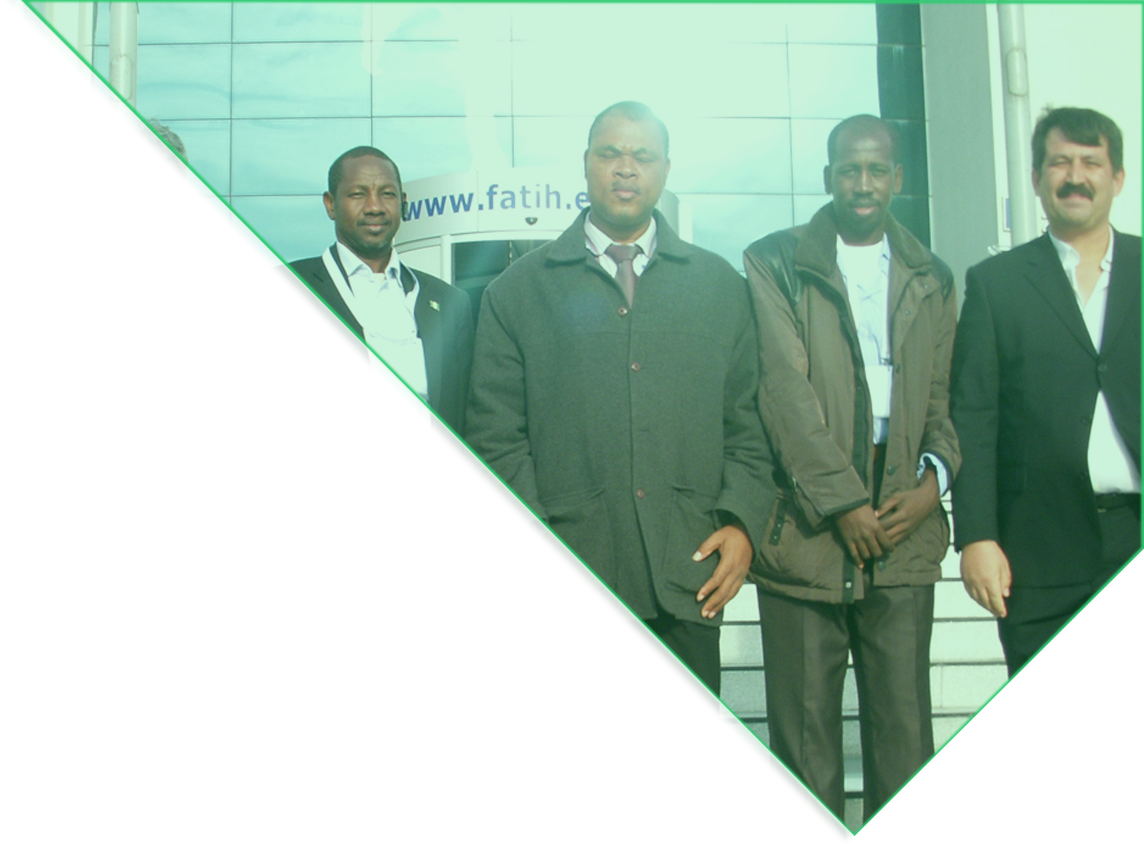
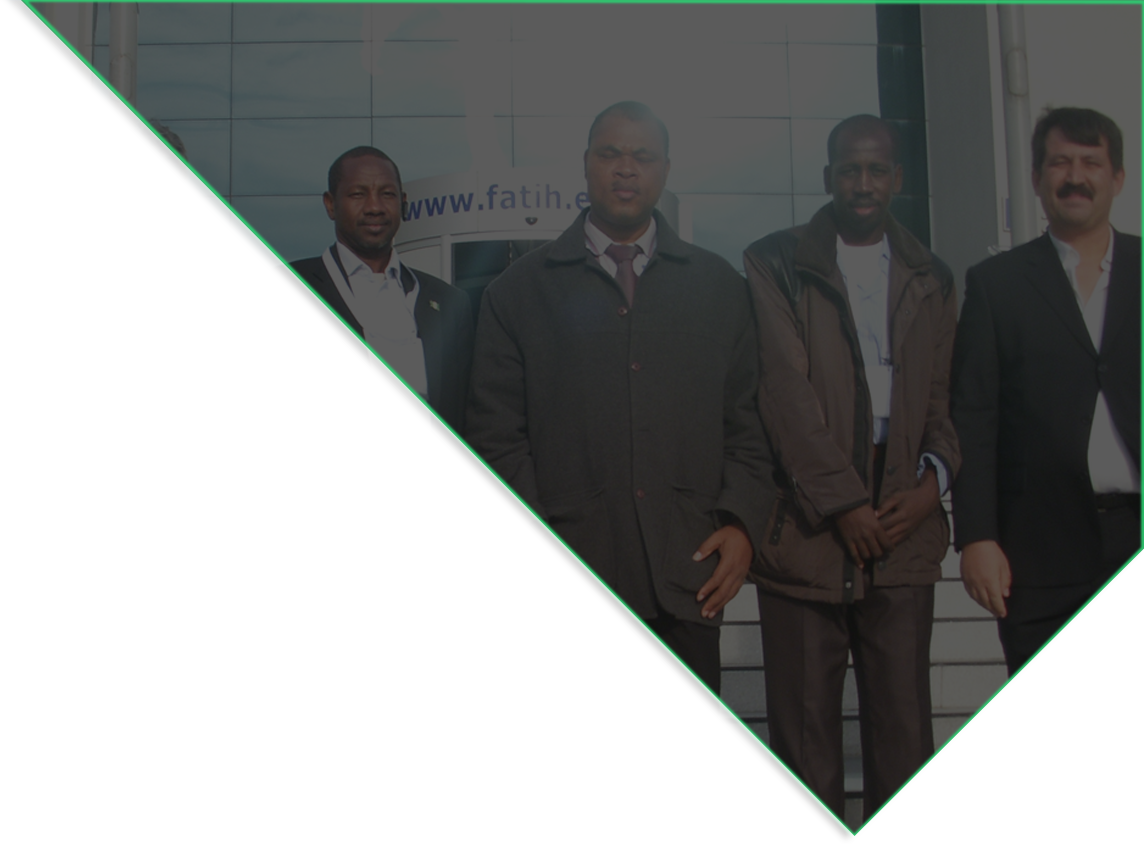
Updated main slider image

diff --git a/@core/storage/framework/views/5736b3b7a76bea8021abf4800b0063f1b928c7fa.php b/@core/storage/framework/views/5736b3b7a76bea8021abf4800b0063f1b928c7fa.php
@@ -1,0 +1,109 @@
+<?php $__env->startSection('site-title'); ?>
+    <?php echo e(__('About')); ?>
+
+<?php $__env->stopSection(); ?>
+<?php $__env->startSection('page-title'); ?>
+    <?php echo e(__('About')); ?>
+
+<?php $__env->stopSection(); ?>
+<?php $__env->startSection('content'); ?>
+    <!-- About Section Four -->
+	<section class="about-section-four">
+		<div class="auto-container">
+			
+			<!-- Sec Title -->
+			<div class="sec-title centered">
+				
+				<h2><?php echo e(get_static_option('about_page_'.get_user_lang().'_about_section_title')); ?></h2>
+			</div>
+			
+			<div class="row clearfix">
+				
+				<!-- Content Column -->
+				<div class="image-column col-lg-5 col-md-12 col-sm-12">
+					<div class="inner-column">
+                            <div class="image-1">
+                                <?php if(file_exists('assets/uploads/'.get_static_option('about_page_'.get_user_lang().'_about_section_left_image'))): ?>
+                                <img  src="<?php echo e(asset('assets/uploads/'.get_static_option('about_page_'.get_user_lang().'_about_section_left_image'))); ?>" alt="">
+                            <?php endif; ?>
+                        </div>
+						<div class="image-2">
+                            <?php if(file_exists('assets/uploads/'.get_static_option('about_page_'.get_user_lang().'_about_section_left_image'))): ?>
+                                <img  src="<?php echo e(asset('assets/uploads/'.get_static_option('about_page_'.get_user_lang().'_about_section_left_image'))); ?>" alt="">
+                            <?php endif; ?>
+                        </div>
+					</div>
+				</div>
+				
+				<!-- Skills Column -->
+				<div class="skills-column col-lg-7 col-md-12 col-sm-12">
+					<div class="inner-column">
+						
+
+						<div class="text">
+							<p><?php echo e(get_static_option('about_page_'.get_user_lang().'_about_section_description')); ?></p>
+						</div>
+						
+					</div>
+				</div>
+				
+			</div>
+		</div>
+	</section>
+	<!-- End About Section Four -->
+
+    <?php echo $__env->make('frontend.partials.counterup', \Illuminate\Support\Arr::except(get_defined_vars(), ['__data', '__path']))->render(); ?>
+
+
+
+    <!-- Team Page Section -->
+	<section class="team-page-section">
+		<div class="auto-container">
+			<!-- Sec Title -->
+			<div class="sec-title centered">
+				<h2><?php echo e(get_static_option('about_page_'.get_user_lang().'_team_section_title')); ?></h2>
+			</div>
+			
+			<div class="row clearfix">
+
+                <?php $__currentLoopData = $all_team_members; $__env->addLoop($__currentLoopData); foreach($__currentLoopData as $data): $__env->incrementLoopIndices(); $loop = $__env->getLastLoop(); ?>
+				<!--Team Block-->
+				<div class="team-block-two style-two col-lg-3 col-md-6 col-sm-12">
+					<div class="inner-box wow fadeIn" data-wow-delay="0ms" data-wow-duration="1500ms">
+						<div class="image">
+							<a href="javascript:void(0)">
+                                <?php if(file_exists('assets/uploads/team-member/team-member-grid-'.$data->id.'.'.$data->image)): ?>
+                                    <img src="<?php echo e(asset('assets/uploads/team-member/team-member-grid-'.$data->id.'.'.$data->image)); ?>" alt="<?php echo e(__($data->name)); ?>">
+                                <?php endif; ?>
+                            </a>
+							<ul class="social-box">
+								<?php if(!empty($data->icon_one) && !empty($data->icon_one_url)): ?>
+                                    <li><a href="<?php echo e($data->icon_one_url); ?>"><i class="<?php echo e($data->icon_one); ?>"></i></a></li>
+                                <?php endif; ?>
+                                <?php if(!empty($data->icon_two) && !empty($data->icon_two_url)): ?>
+                                    <li><a href="<?php echo e($data->icon_two_url); ?>"><i class="<?php echo e($data->icon_two); ?>"></i></a></li>
+                                <?php endif; ?>
+                                <?php if(!empty($data->icon_three) && !empty($data->icon_three_url)): ?>
+                                    <li><a href="<?php echo e($data->icon_three_url); ?>"><i class="<?php echo e($data->icon_three); ?>"></i></a></li>
+                                <?php endif; ?>
+							</ul>
+						</div>
+						<div class="lower-content">
+							<h5><a href="javascript:void(0)"><?php echo e($data->name); ?></a></h5>
+							<div class="designation"><?php echo e($data->designation); ?></div>
+						</div>
+					</div>
+				</div>
+                <?php endforeach; $__env->popLoop(); $loop = $__env->getLastLoop(); ?>
+				
+			</div>
+			
+		</div>
+	</section>
+	<!-- End Team Page Section -->
+
+ <?php echo $__env->make("frontend.partials.brand_logos", \Illuminate\Support\Arr::except(get_defined_vars(), ['__data', '__path']))->render(); ?>
+
+<?php $__env->stopSection(); ?>
+
+<?php echo $__env->make('frontend.frontend-page-master', \Illuminate\Support\Arr::except(get_defined_vars(), ['__data', '__path']))->render(); ?><?php /**PATH /Users/ktmsulaim/Sites/storksolutions/@core/resources/views/frontend/pages/about.blade.php ENDPATH**/ ?>
